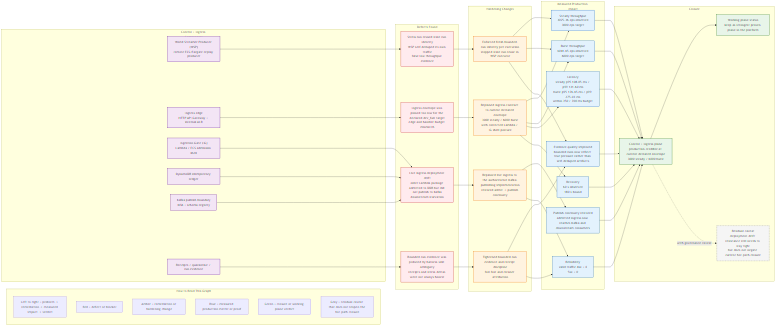
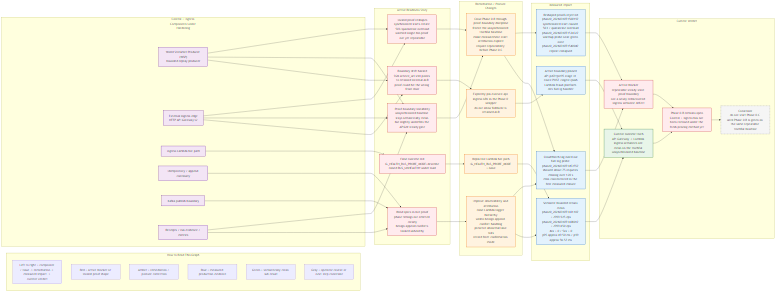
Update readiness graphs and documentation: reflect current Phase 0 truth, correct network and resource views, and regenerate visual artifacts for accuracy

Changed region(s): [[0.0, 0.0, 1.0, 1.0]]

diff --git a/docs/model_spec/platform/implementation_maps/dev_substrate/dev_full/proving_plane/platform.production_readiness.impl_actual.md b/docs/model_spec/platform/implementation_maps/dev_substrate/dev_full/proving_plane/platform.production_readiness.impl_actual.md
@@ -459,3 +459,24 @@ This is a meaningful methodological shift even though it does not lower a single
 - only then narrow runtime remediation if the truthful baseline still stays red
 
 I have therefore updated the parent production-readiness plan and the `Phase 0` expansion so this posture is no longer implicit in notebook text alone.
+
+## 2026-03-10 16:06:49 +00:00
+The readiness graphs also needed the same correction. They had fallen behind the current `Phase 0` truth in two important ways.
+
+First, the two "production-ready current" graphs were still visually carrying the retained internal ALB / ECS ingress path as though it were part of the currently accepted external admission boundary. That no longer matches the pinned `Phase 0.A` preflight truth. The active external front door for this revalidation is:
+
+- `HTTP API Gateway v2`
+- `POST /ingest/push`
+- `fraud-platform-dev-full-ig-handler`
+
+So I rewrote the network and resource graphs to show the currently promoted Control + Ingress core through `API Gateway -> Lambda`, and to make the retained internal ingress service absent on purpose rather than silently overclaimed.
+
+Second, the readiness-delta graph was still telling an older green closure story. That was materially false against the current work. The live story now is:
+
+- active boundary drift hazard was removed,
+- ingress semantics on the truthful unsynchronized baseline are now clean,
+- the remaining blocker is the repeatable steady-state proof boundary,
+- synchronized and unstable warmup reshapes are diagnostic only,
+- `Phase 0.B` is still open and `Phase 0.C` is blocked.
+
+I regenerated the PNGs immediately after updating the Mermaid sources so the visual artifacts now match the text artifacts. This matters because the graphs are for operator understanding; if they lag behind the notes, they create the same blindness in a different form.

diff --git a/docs/logbook/03-2026/2026-03-10.md b/docs/logbook/03-2026/2026-03-10.md
@@ -381,3 +381,17 @@
   - no `Phase 0.C` escalation until `0.B` is green on a repeatable baseline
 - Operational impact:
   - future `Phase 0` spend should now go toward telemetry lock, repeatability proof, and narrow defect attribution instead of more ad hoc traffic-shape experiments
+
+## 2026-03-10 16:06:49 +00:00
+- Updated the three readiness graphs under `docs/design/platform/dev_full/graph/readiness/` to reflect the current `Phase 0` truth.
+- Network and resource graph corrections:
+  - removed the retained internal ALB / ECS ingress path from the currently promoted ready-network claim
+  - pinned the active external front door as `API Gateway -> Lambda`
+  - updated the resource view to the current API identity and ingress runtime posture
+- Readiness-delta graph correction:
+  - replaced the older green closure story with the current open `Phase 0.B` story
+  - current visual verdict now shows:
+    - ingress semantics clean on the truthful unsynchronized baseline
+    - active blocker = repeatable steady-state proof boundary
+    - `Phase 0.C` blocked until `Phase 0.B` closes on a repeatable truthful baseline
+- Regenerated all three Mermaid PNG artifacts with the local Mermaid CLI so the rendered graphs match the source files.
